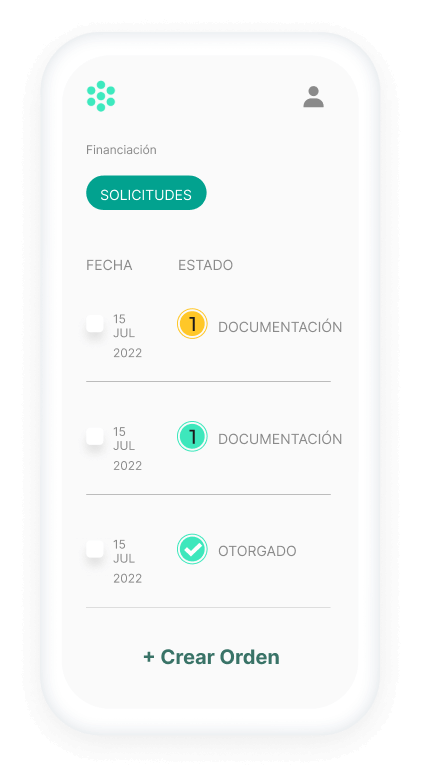
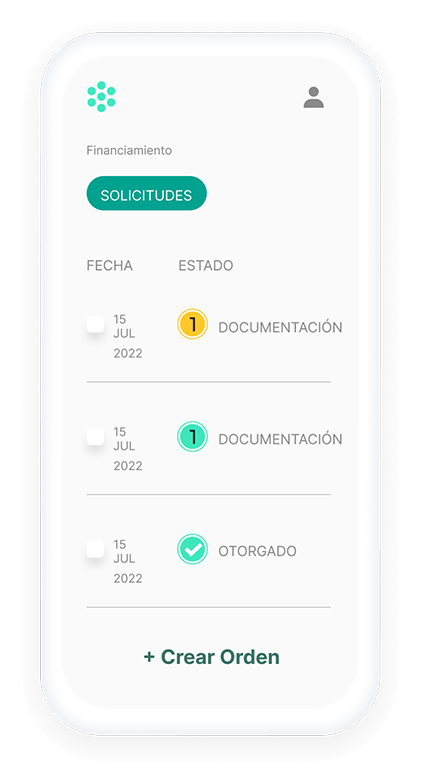
ad changes

diff --git a/mx/financiamiento-distribuidor.html b/mx/financiamiento-distribuidor.html
@@ -98,7 +98,7 @@
                     <div class="hero-tittle col-6 col-tm-12 col-sm-12">
                         <h5>Agree <b> Financiamiento</b></h5>                        
                         <h1 class="tittle-header">Créditos <br> <span>100% digitales</span></h1>
-                        <p class="m-b2">Seas productor agropecuario o distribuidor de insumos y servicios nuestras opciones de financiación se adaptan a tus necesidades.</p>
+                        <p class="m-b2">Si eres productor agropecuario o distribuidor de insumos y servicios, nuestras opciones de financiamiento se adaptan a tus necesidades. </p>
                         <a class="fill-button" href="contacto.html">Contáctanos</a>
                     </div>
                     <div id="hero" class="hero-img col-6 col-tm-12 col-sm-12 inMobile-hidden">
@@ -131,8 +131,8 @@
             <div class="row m-t3">
                 <div class="feature-card m-b2 m-t2">
                     <div class="content-text col-6 col-sm-12 p-r2">
-                        <h4>Ofrezca financiamiento <br> <b>sin riesgo ni costo</b></h4>
-                        <p>Gestione las solicitudes de sus clientes, brindándoles un servicio adicional. Para ellos es una financiación, para usted, una operación de contado.</p>
+                        <h4>Ofrece opciones de financiamiento <br> <b>sin riesgo ni costo para ti</b></h4>
+                        <p>Administra las solicitudes de tus clientes, brindándoles un servicio adicional. Ellos obtienen el financiamiento que necesitan y tu venta es al contado.</p>
                     </div>
                     <div class="content-img col-6 col-sm-12"><img src="images/creditos/img-2.png" alt=""></div>
                 </div>
@@ -224,34 +224,40 @@
             <div class="wrap-bulletCard">
                     <div class="col-3 col-sm-12 m-b4">
                         <div class="wrap-number"><span>1</span></div>
-                        <h5>Screening</h5>
-                        <p>Identifique cuáles de sus clientes son financiables.</p>
+                        <h5>Alta en la plataforma</h5>
+                        <p>Invita a tus clientes a obtener un nuevo financiamiento.</p>
                     </div>
 
                     <div class="col-3 col-sm-12 m-b4">
                         <div class="wrap-number"><span>2</span></div>
-                        <h5>Solicite tu crédito</h5>
-                        <p>Seleccione los productos y cargue la documentación requerida.</p>
+                        <h5>Elige el financiamiento</h5>
+                        <p>Selecciona las opciones de productos financieros que se ajusten a sus necesidades.</p>
                     </div>
 
                     <div class="col-3 col-sm-12 m-b4">
                         <div class="wrap-number"><span>3</span></div>
-                        <h5>Factura y Garantía</h5>
-                        <p>Cargue la factura del insumo, seguro o servicio a financiar y la respectiva garantía.</p>
+                        <h5> Plan productivo</h5>
+                        <p>Dinos qué van a producir, dónde y cómo</p>
                     </div>  
                     
                     
                     <div class="col-3 col-sm-12 m-b4">
                         <div class="wrap-number"><span>4</span></div>
-                        <h5>Firmas</h5>
-                        <p>El solicitante (productor) recibirá los links para realizar la firma eléctronica del crédito.  </p>
+                        <h5>Precalificación</h5>
+                        <p>Nuestro algoritmo procesa la información y preaprueba la solicitud</p>
                     </div>
 
                     <div class="col-3 col-sm-12 m-b4">
                         <div class="wrap-number"><span>5</span></div>
-                        <h5>Otorgamiento</h5>
-                        <p>Confirmaremos el otorgamiento del crédito y los fondos serán depositados en la cuenta del proveedor de insumos.</p>
+                        <h5>Documentación</h5>
+                        <p>Sube únicamente la documentación necesaria para los productos aprobados</p>
                     </div>  
+
+                    <div class="col-3 col-sm-12 m-b4">
+                        <div class="wrap-number"><span>6</span></div>
+                        <h5> Firma y otorgamiento</h5>
+                        <p>Tu cliente (el productor) firma de manera digital los contratos y recibe los recursos</p>
+                    </div>                      
 
             </div>        
                 
@@ -277,13 +283,13 @@
                                         <div class="icon-feature"><img src="images/icon-workspace-1.png" alt=""></div>
                                     </div>                                
                                 </div>
-                                <p>Utiliza la plataforma sin costo, y genera mayores ventas de contado reduciendo tu riesgo</p>
+                                <p>Utiliza la plataforma sin costo, y genera mayores ventas de contado reduciendo tu riesgo.</p>
                             </div>
                         </div>
                         <div class="swiper-slide">
                             <div class="feature-card full-height">
                                 <div class="header-card">
-                                    <div class="wrap-tittle"><h3>Credito <br> Oportuno </h3></div>
+                                    <div class="wrap-tittle"><h3>Crédito <br> Oportuno </h3></div>
                                     <div class="wrap-icon">
                                         <div class="icon-feature"><img src="images/icon-workspace-2.png" alt=""></div>
                                     </div>                                
@@ -300,7 +306,7 @@
                                         <div class="icon-feature"><img src="images/icon-workspace-3.png" alt=""></div>
                                     </div>                                
                                 </div>
-                                <p>Sin burocracia y de manera agil y simple</p>
+                                <p>Sin burocracia y de manera ágil y simple.</p>
                                 <br>
                                                              
                             </div>
@@ -326,8 +332,8 @@
                             <div class="feature-card full-height">
                                 <div class="content-text  p-r2 card-shadow full-height">
                                     <h5>Agree <b> Riesgo</b></h5>
-                                    <h4>Mejora el riesgo y <br> <b>la gestión del crédito</b></h4>
-                                    <p>Con Agree podrá gestionar las solicitudes de crédito de su equipo comercial y, con el motor de riesgo, tomar decisiones basadas en datos para una mayor seguridad de sus negocios.</p>
+                                    <h4>Reduce el riesgo y mejora  <br> <b> la gestión de tus créditos</b></h4>
+                                    <p>Con Agree, podrás administrar las solicitudes de crédito de tu equipo comercial de una manera más eficiente y, con el motor de riesgo, tomar decisiones respaldadas con datos, generando mayor seguridad en tus negocios. </p>
                                 </div>
                             </div>
                         </div>
@@ -356,7 +362,7 @@
     <footer>
         <div class="wrap-green">
             <div class="container">
-                <h3 class="m-b2">¿Como podemos ayudarte?</h3>
+                <h3 class="m-b2">¿Cómo podemos ayudarte?</h3>
                 <div class="align-center">  <a href="contacto.html" class="fill-button m-t1">Contáctanos</a></div>
             </div>
         </div>

diff --git a/mx/financiamiento-productor.html b/mx/financiamiento-productor.html
@@ -131,7 +131,7 @@
             <div class="row m-t3">
                 <div class="feature-card m-b2 m-t2">
                     <div class="content-text col-6 col-sm-12 p-r2">
-                        <h4>Solicita creditos <br> <b> sin burocracia</b></h4>
+                        <h4>Solicita créditos <br> <b> sin burocracia</b></h4>
                         <p>Financiamos la compra de insumos, pago de seguros o servicios, sin burocracias y ¡en tiempo récord! Puedes solicitar el crédito, el proveedor con el que quieres operar y el monto que deseas financiar . </b>  </p>
                     </div>
                     <div class="content-img col-6 col-sm-12"><img src="images/creditos/img-1.png" alt=""></div>
@@ -328,7 +328,7 @@
     <footer>
         <div class="wrap-green">
             <div class="container">
-                <h3 class="m-b2">Cómo podemos ayudarte?</h3>
+                <h3 class="m-b2">¿Cómo podemos ayudarte?</h3>
                 <div class="align-center">  <a href="contacto.html" class="fill-button m-t1">Contáctanos</a></div>
             </div>
         </div>

diff --git a/mx/riesgo.html b/mx/riesgo.html
@@ -362,7 +362,7 @@
     <footer>
         <div class="wrap-green">
             <div class="container">
-                <h3 class="m-b2">¿Como podemos ayudarte?</h3>
+                <h3 class="m-b2">¿Cómo podemos ayudarte?</h3>
                 <div class="align-center">  <a href="contacto.html" class="fill-button m-t1">Contáctanos</a></div>
             </div>
         </div>

diff --git a/mx/workspace.html b/mx/workspace.html
@@ -248,7 +248,7 @@
     <footer>
         <div class="wrap-green">
             <div class="container">
-                <h3 class="m-b2">¿Cómo te ayudamos?</h3>
+                <h3 class="m-b2">¿Cómo podemos ayudarte?</h3>
                 <div class="align-center">  <a href="contacto.html" class="fill-button m-t1">Contactanos</a></div>
             </div>
         </div>
